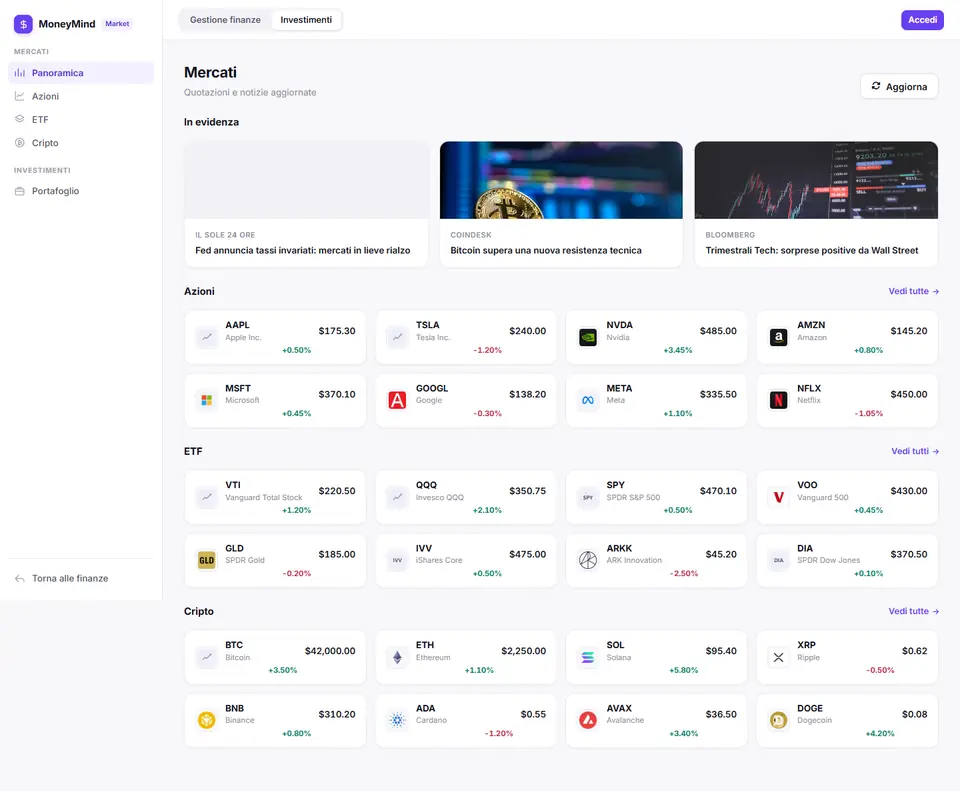
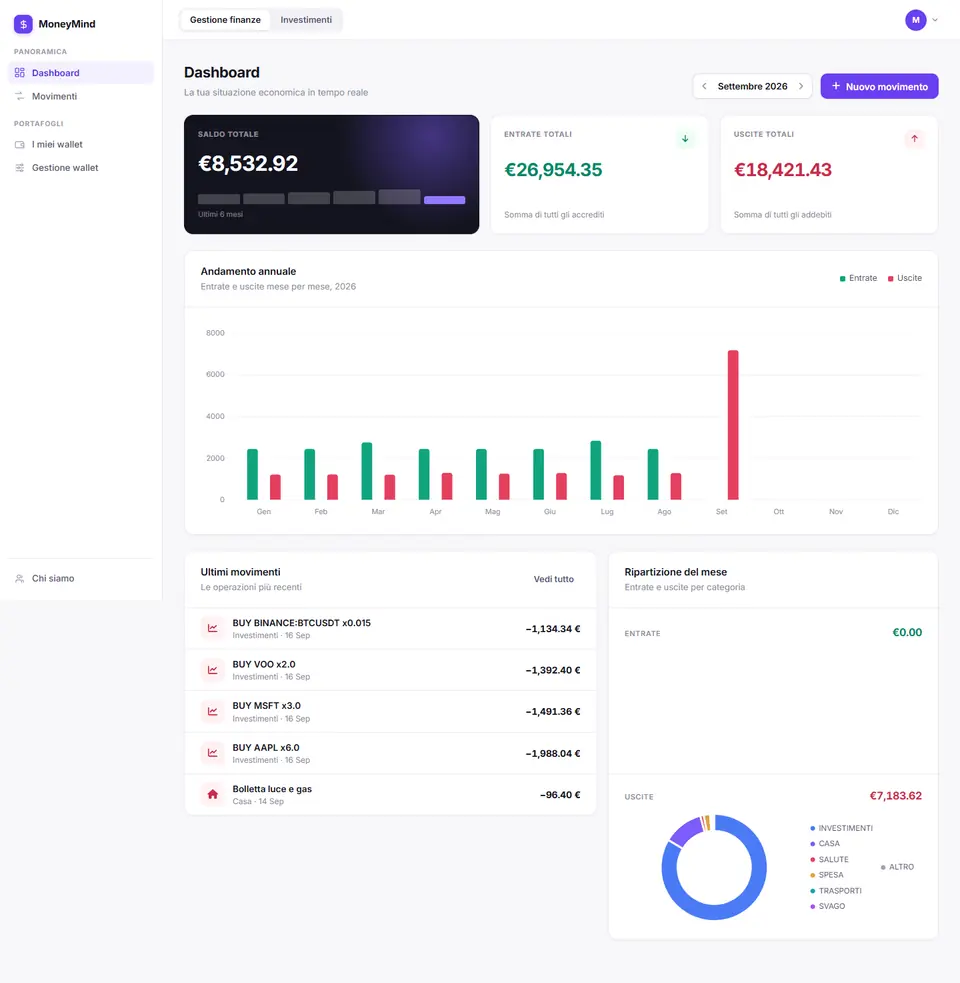
MoneyMind: schermate dell'area riservata con dati veri
Dashboard con saldo e andamento annuale (anche come copertina che scorre),
portafoglio investimenti, wallet condiviso con codice di invito e mercati.
Catturate su un database usa e getta creato per l'occasione e popolato con
lo script di dati demo del progetto.

diff --git a/lib/portfolio-data.ts b/lib/portfolio-data.ts
@@ -120,22 +120,34 @@ export const projects: Project[] = [
     repo: "https://github.com/Matteoiazz/MoneyMind-WebApplication",
     cover: {
       src: "/projects/moneymind/cover.webp",
-      alt: "Sezione Mercati di MoneyMind con notizie in evidenza e quotazioni di azioni ed ETF",
-      caption: "Panoramica dei mercati",
+      alt: "Dashboard di MoneyMind con saldo totale, entrate, uscite e grafico dell'andamento annuale",
+      caption: "Dashboard con saldo e andamento annuale",
       frame: "browser",
     },
     coverTall: "/projects/moneymind/cover-tall.webp",
     gallery: [
       {
-        src: "/projects/moneymind/grafico.webp",
-        alt: "Grafico a candele del titolo Apple con statistiche chiave",
-        caption: "Grafico e statistiche di un titolo",
+        src: "/projects/moneymind/portafoglio.webp",
+        alt: "Portafoglio investimenti con valore totale, torta dell'allocazione e confronto tra capitale investito e valore attuale",
+        caption: "Portafoglio investimenti",
         frame: "browser",
       },
       {
-        src: "/projects/moneymind/chi-siamo.webp",
-        alt: "Pagina Chi siamo di MoneyMind con i punti di forza della piattaforma",
-        caption: "Presentazione della piattaforma",
+        src: "/projects/moneymind/wallet.webp",
+        alt: "Wallet condiviso Casa Milano con codice di invito, saldo, entrate e uscite del gruppo",
+        caption: "Wallet condiviso, con codice di invito",
+        frame: "browser",
+      },
+      {
+        src: "/projects/moneymind/mercati.webp",
+        alt: "Sezione Mercati con notizie in evidenza e quotazioni di azioni ed ETF",
+        caption: "Mercati: azioni, ETF e crypto",
+        frame: "browser",
+      },
+      {
+        src: "/projects/moneymind/grafico.webp",
+        alt: "Grafico a candele del titolo Apple con statistiche chiave",
+        caption: "Grafico e statistiche di un titolo",
         frame: "browser",
       },
     ],
